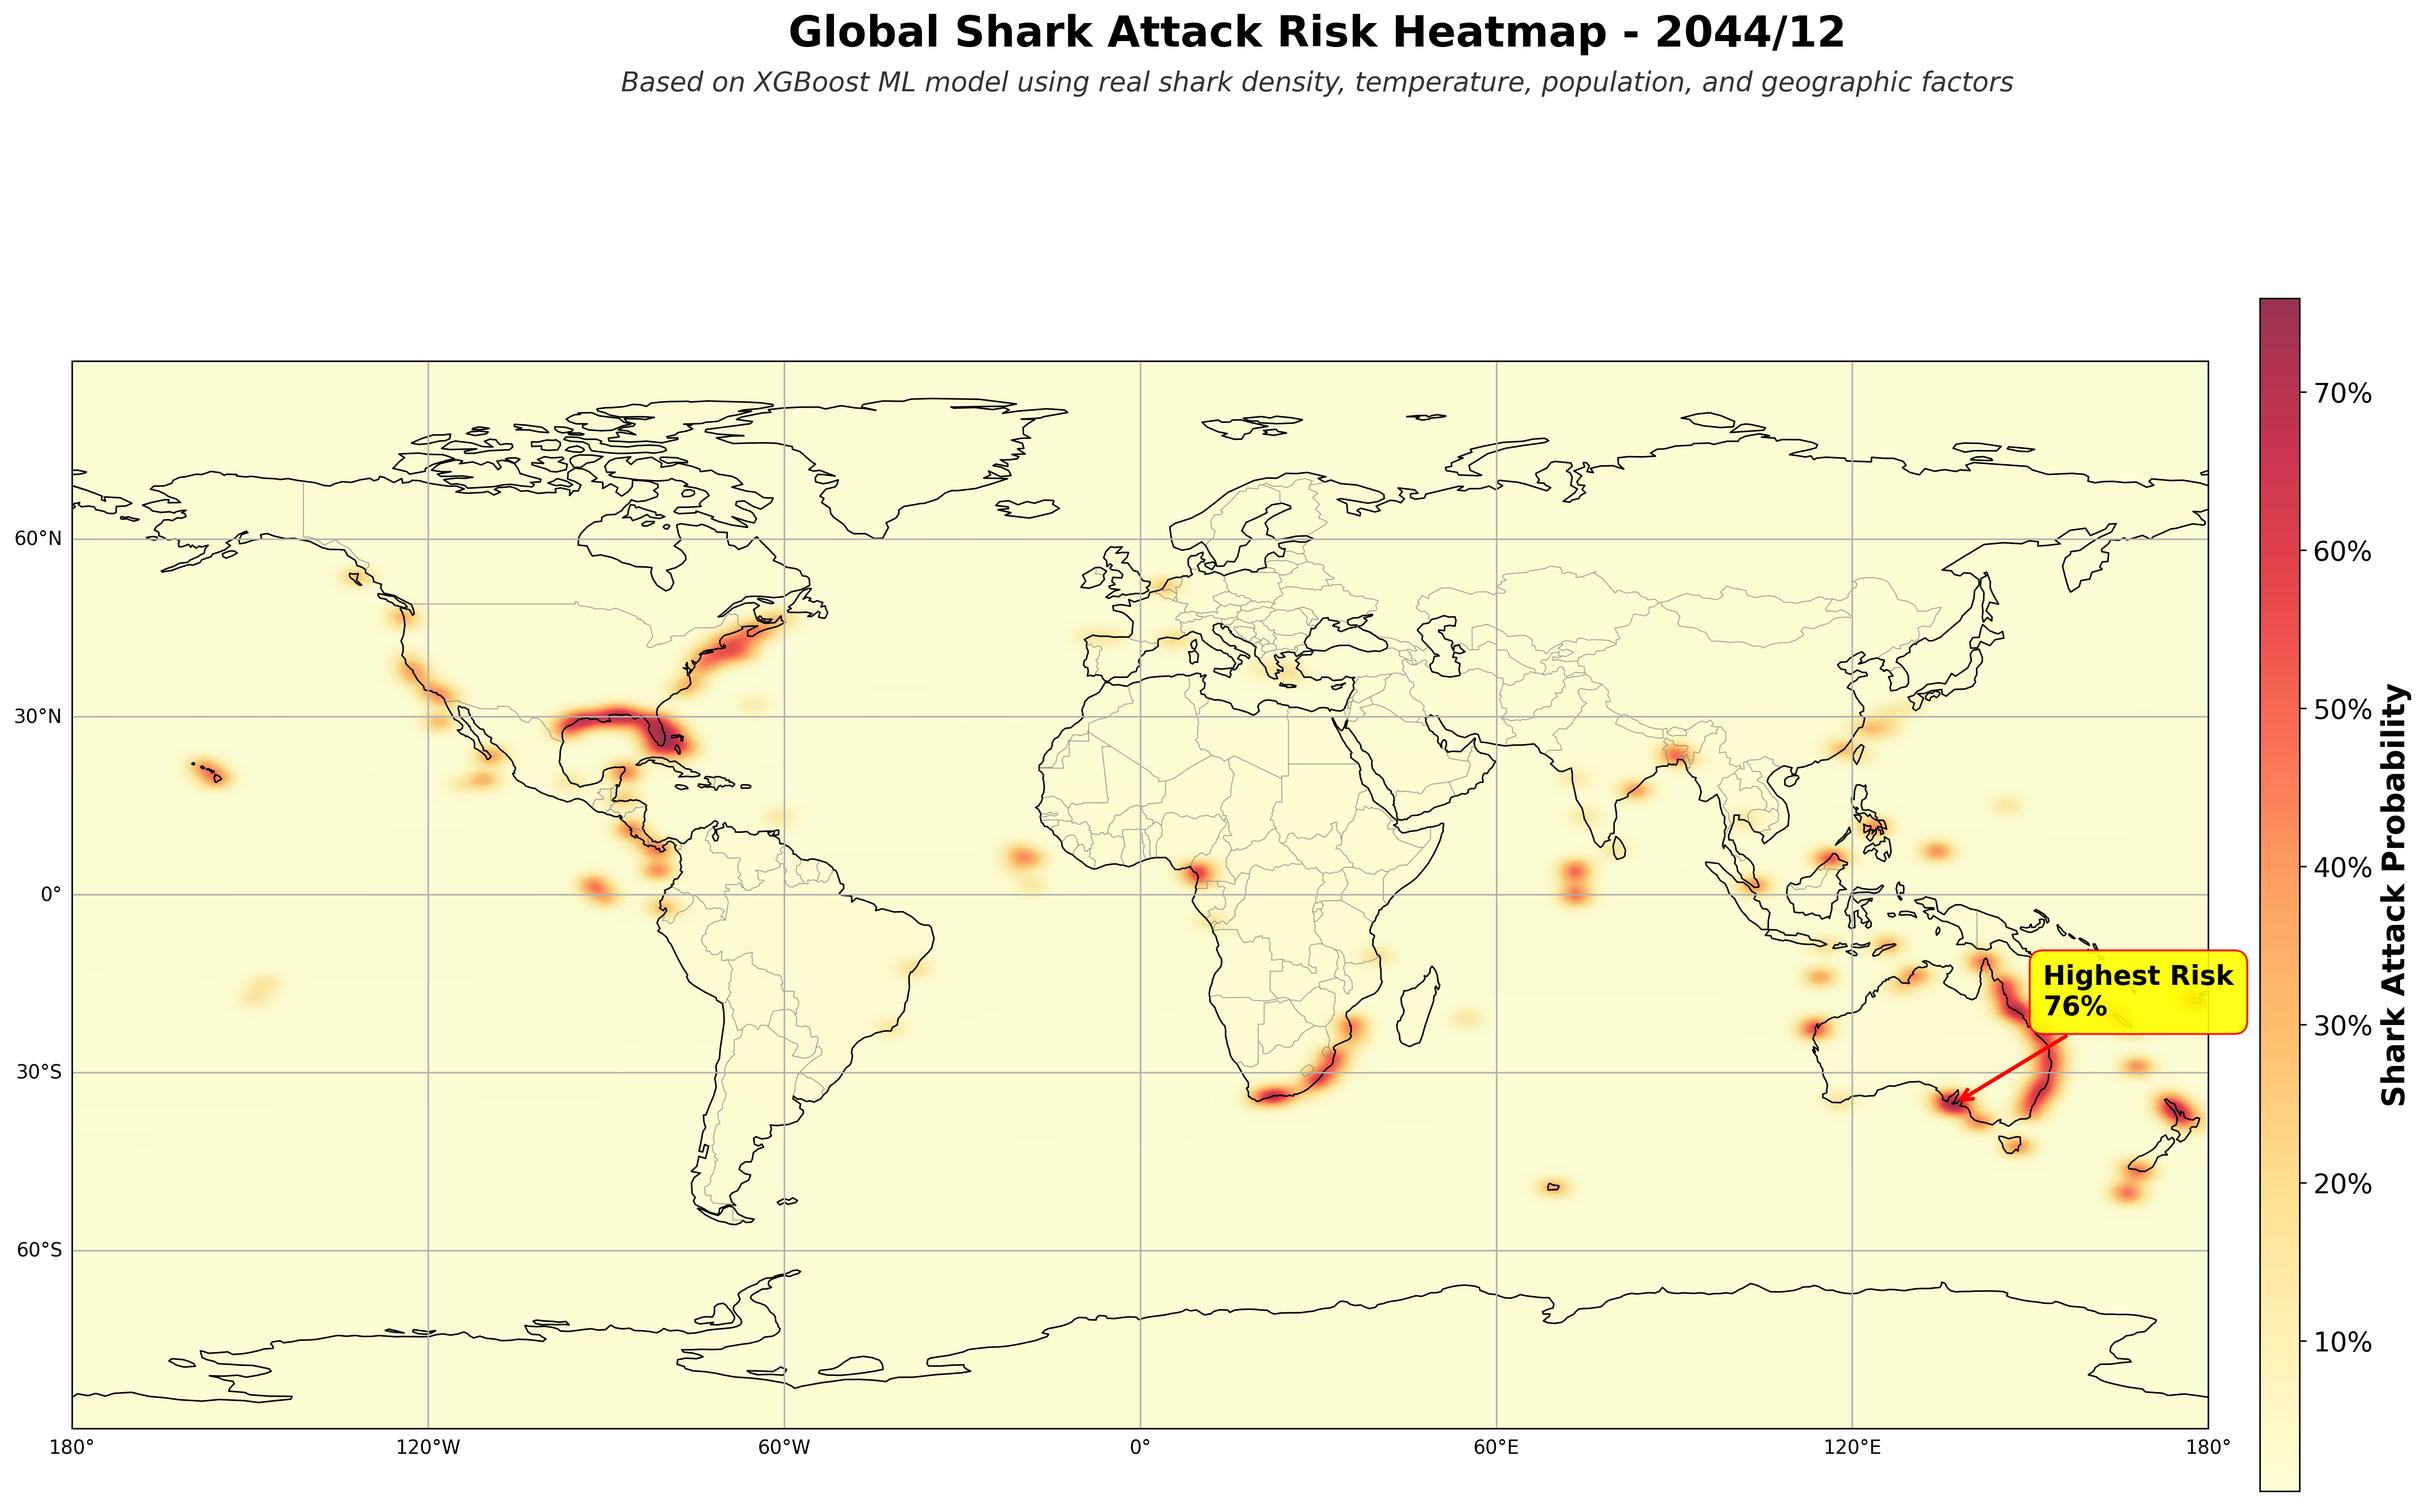
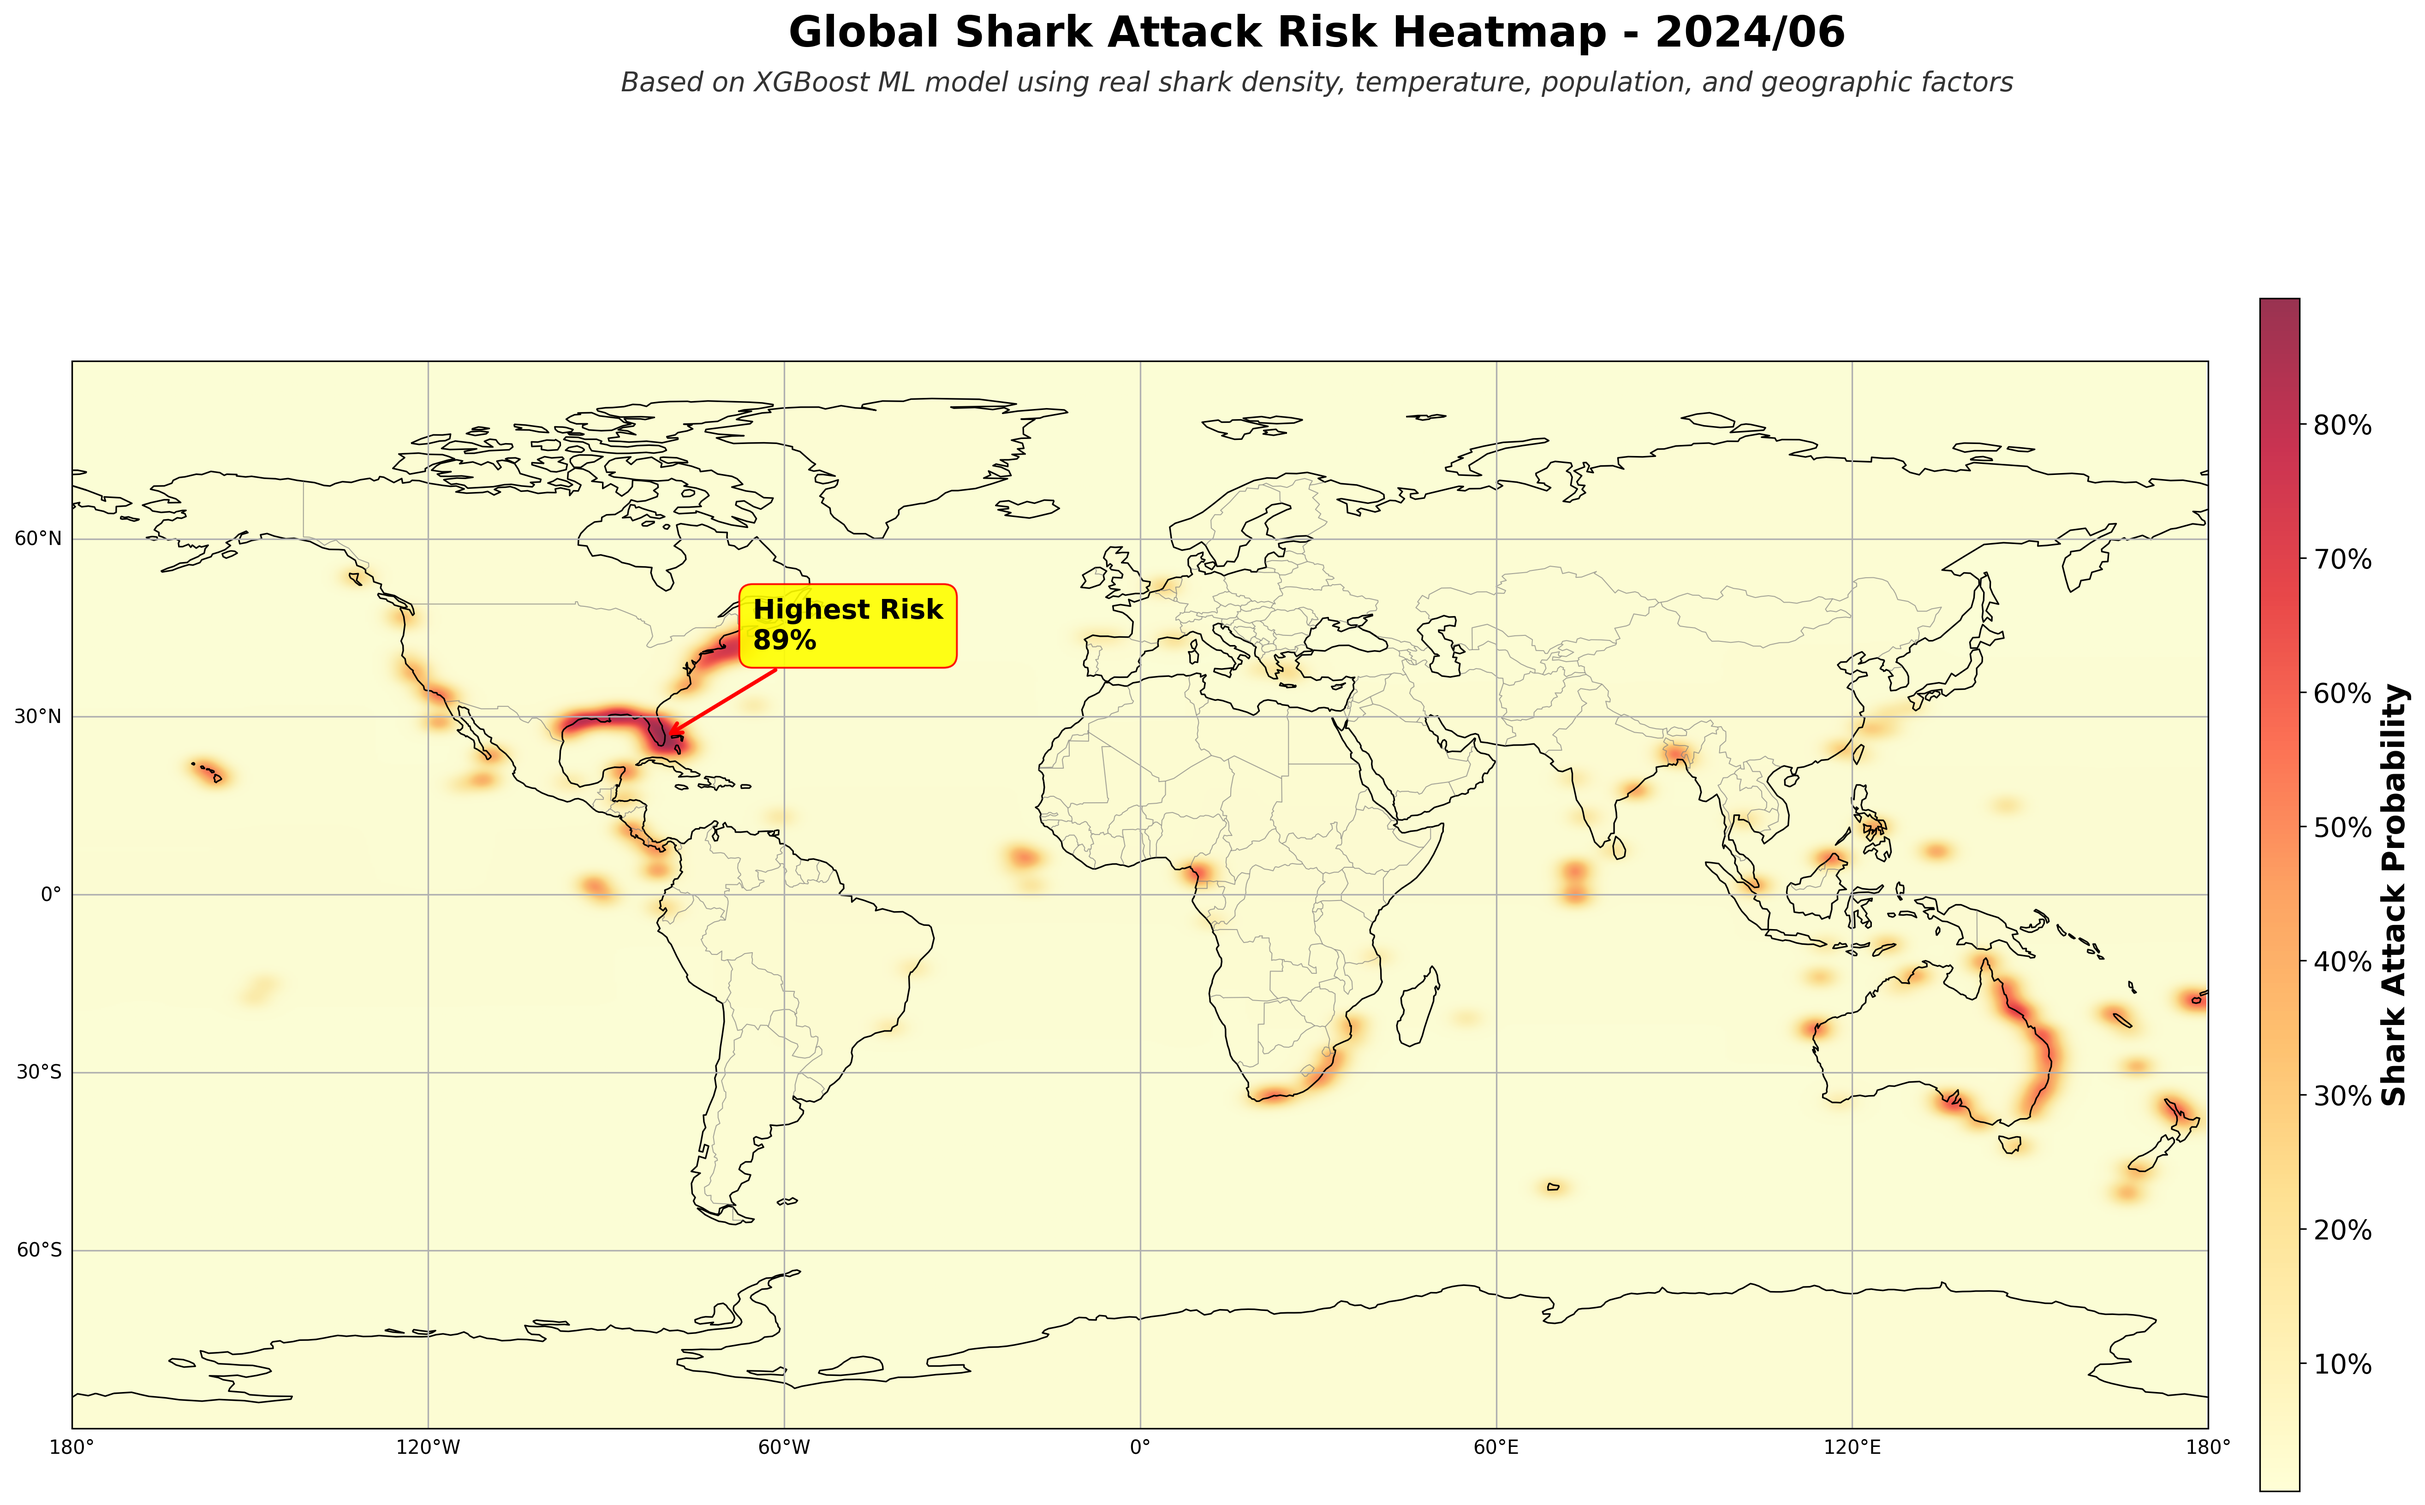
Final version

diff --git a/webapp/src/app/page.tsx b/webapp/src/app/page.tsx
@@ -248,12 +248,6 @@ export default function Home() {
                         {heatmapData.statistics.total_locations.toLocaleString()}
                       </span>
                     </div>
-                    <div className="flex justify-between items-baseline py-1">
-                      <span className="text-gray-300 text-xs">Years Since Baseline</span>
-                      <span className="text-white font-light text-sm">
-                        {heatmapData.climate_info.years_since_baseline}
-                      </span>
-                    </div>
                   </div>
                 </div>
 

diff --git a/webapp/src/app/components/Globe.tsx b/webapp/src/app/components/Globe.tsx
@@ -671,9 +671,6 @@ export default function Globe({ data, viewMode, onViewModeChange }: GlobeProps) 
               <span className="text-gray-400">Risk Level:</span>{' '}
               <span className="text-yellow-400 font-semibold">{clickInfo.percentage}%</span>
             </p>
-            <p className="text-xs text-gray-500">
-              Probability: {clickInfo.probability.toFixed(6)}
-            </p>
           </div>
           <button 
             onClick={() => setClickInfo(null)}

diff --git a/src/prediction.py b/src/prediction.py
@@ -507,8 +507,8 @@ if __name__ == "__main__":
     
     results, lat_range, lon_range, prob_grid = main_prediction_pipeline(
         num_samples=1000000,  # High resolution: 300x300 grid (1.2° resolution)
-        year=2044, 
-        month=12,  # July (summer in Northern Hemisphere)
+        year=2024, 
+        month=6,  # July (summer in Northern Hemisphere)
         sigma=5  # Smoothing parameter
     )
 
